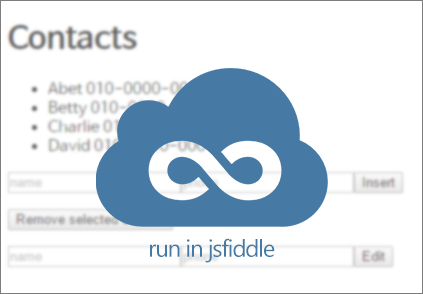
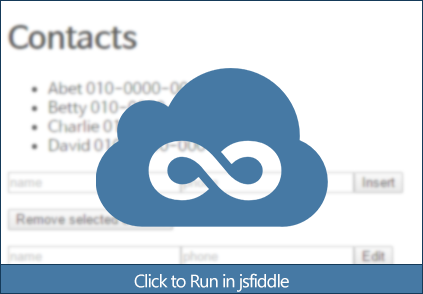
.

Changed region(s): [[0.0, 0.0, 1.0, 1.0]]

diff --git a/06-component-iteration/README.md b/06-component-iteration/README.md
@@ -1,3 +1,2 @@
-# React Component Iteration thru Mapping & Data Modification
-[![Image](https://raw.githubusercontent.com/velopert/react-tutorials/master/06-component-iteration/preview.png)](https://jsfiddle.net/velopert/k21ozagp/17/)  
-Click image above to run in **jsFiddle**
+## React Component Iteration thru Mapping & Data Modification
+[![Image](https://raw.githubusercontent.com/velopert/react-tutorials/master/06-component-iteration/preview.png)](https://jsfiddle.net/velopert/k21ozagp/17/) 
